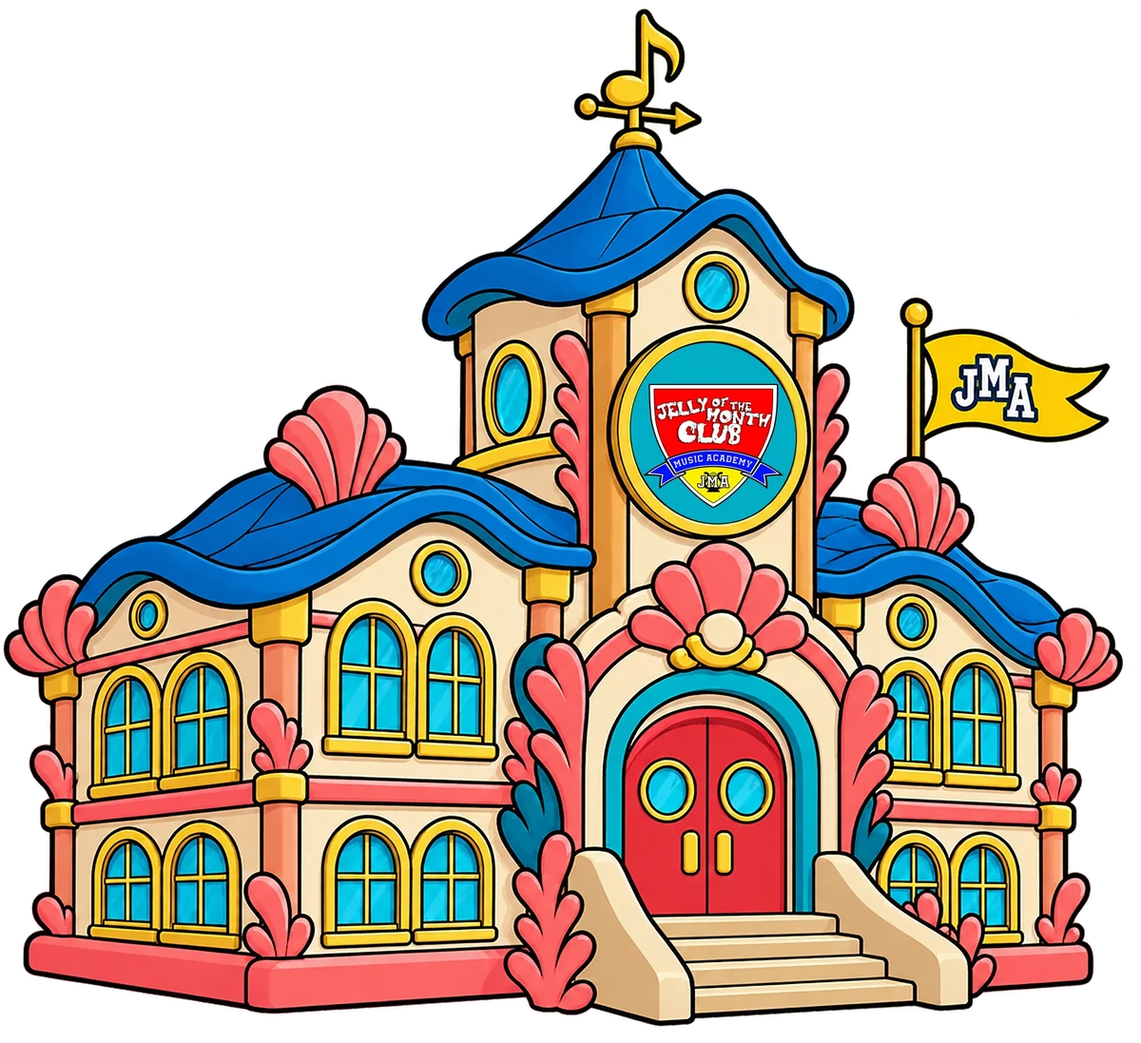
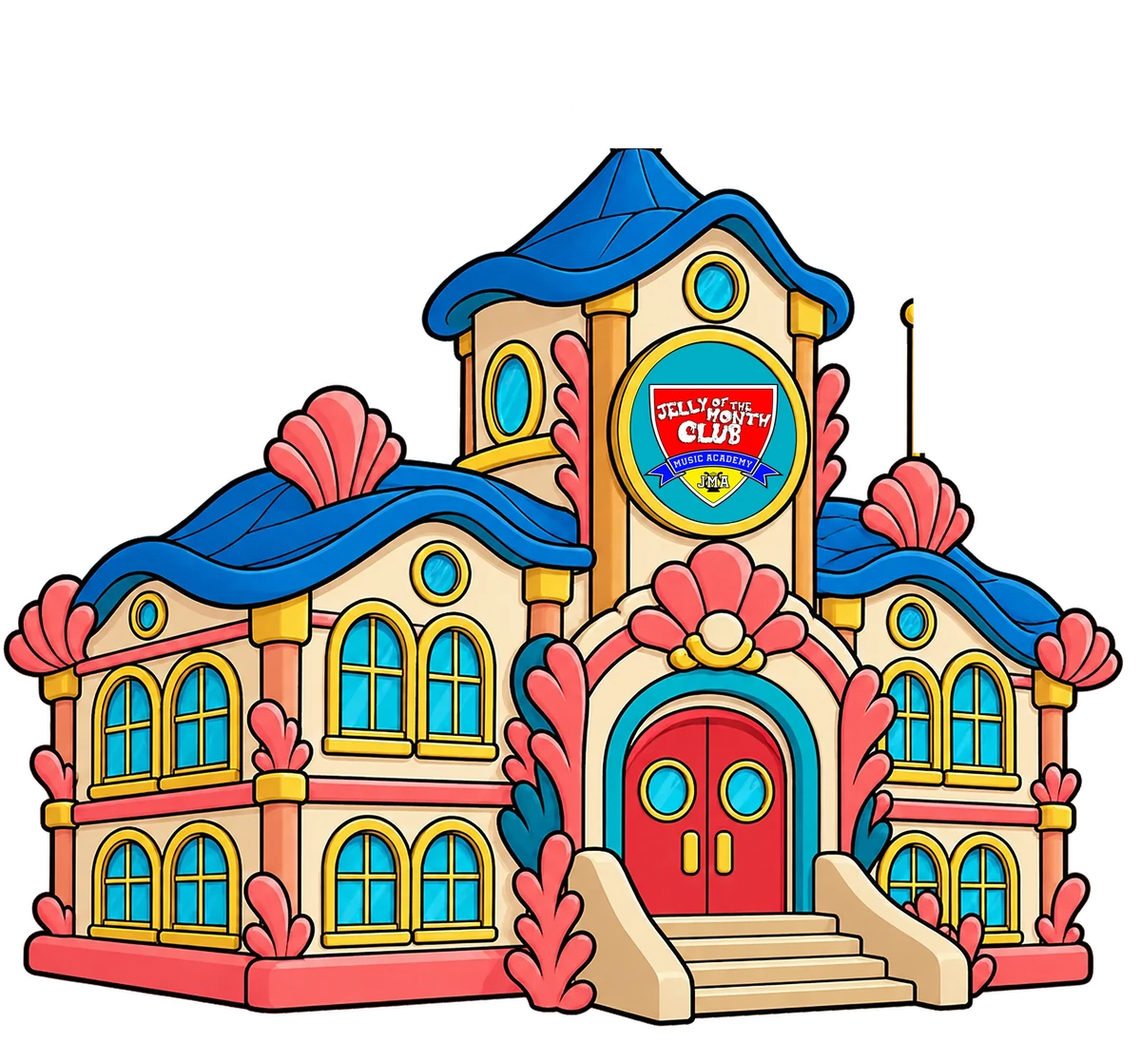
## Four polish features shipped - **Chalk Quest Scrolls**: the two parchment scrolls (and the little treasure map) on the chalkboard now carry the real quest titles — tour or daily — and finished ones get a green chalk tick and a strike-through. - **Your Jelly Peeks In**: the kid's chosen character 
Emergent-Commit-Key: e839b4777209662ae76fa9d4f877a6c32881bd78256ebc9419d2d655642b4d56

Changed region(s): [[0.8017, 0.2789, 0.9867, 0.4339], [0.4933, 0.0, 0.6167, 0.155]]

diff --git a/frontend/src/components/CoverDesigner.js b/frontend/src/components/CoverDesigner.js
@@ -3,7 +3,7 @@
 // drawn from every sticker they've earned, 4 frames and a vinyl label color.
 import { useState } from 'react';
 import { motion } from 'framer-motion';
-import { Play, Check, X, Shuffle, User } from 'lucide-react';
+import { Play, Check, X, Shuffle, User, Type } from 'lucide-react';
 import AvatarSprite from './AvatarSprite';
 import useStickers from '../hooks/useStickers';
 import { COLLECTION_STICKERS, STICKER_CATEGORIES } from '../data/stickers';
@@ -26,6 +26,13 @@ export const FRAMES = [
   { id: 'gold',  name: 'Gold',  style: { border: '5px solid #FFCC00' } },
   { id: 'candy', name: 'Candy', style: { border: '5px dashed white' } },
 ];
+export const TITLE_FONTS = [
+  { id: 'bubbly',  name: 'Bubbly',  family: "'Sniglet', cursive", weight: 800, tracking: '0.01em', upper: false },
+  { id: 'round',   name: 'Round',   family: "'Fredoka', sans-serif", weight: 700, tracking: '0.02em', upper: false },
+  { id: 'comic',   name: 'Comic',   family: "'Comic Kings', cursive", weight: 400, tracking: '0.03em', upper: false },
+  { id: 'block',   name: 'Block',   family: "'Fredoka', sans-serif", weight: 700, tracking: '0.14em', upper: true },
+];
+export const TITLE_COLORS = ['#FFFFFF', '#0B1F3A', '#FFCC00', '#FF2D85', '#1E9BFF', '#34A853', '#FF9500', '#8E5BFF'];
 export const SLOTS = [
   { id: 'main', name: 'Big' },
   { id: 'tl',   name: 'Top left' },
@@ -38,8 +45,8 @@ export function saveCover(id, cover) { const all = loadCovers(); all[id] = cover
 
 // Old covers were { color, sticker } with sticker=null meaning "my avatar".
 export function normalizeCover(c, fallbackColor) {
-  if (!c) return { color: fallbackColor, pattern: 'solid', frame: 'none', label: '#111111', stickers: { main: 'me', tl: null, br: null } };
-  return { color: c.color || fallbackColor, pattern: c.pattern || 'solid', frame: c.frame || 'none', label: c.label || '#111111', stickers: c.stickers || { main: c.sticker || 'me', tl: null, br: null } };
+  if (!c) return { color: fallbackColor, pattern: 'solid', frame: 'none', label: '#111111', stickers: { main: 'me', tl: null, br: null }, title: null };
+  return { color: c.color || fallbackColor, pattern: c.pattern || 'solid', frame: c.frame || 'none', label: c.label || '#111111', stickers: c.stickers || { main: c.sticker || 'me', tl: null, br: null }, title: c.title || null };
 }
 
 const ICON_OF = Object.fromEntries(COLLECTION_STICKERS.filter((s) => s.icon).map((s) => [s.id, s.icon]));
@@ -51,9 +58,10 @@ function SlotArt({ value, avatar, className }) {
   return src ? <img src={src} alt="" className={className} /> : null;
 }
 
-export function Sleeve({ cover, avatar, kind, className = '', activeSlot, onSlot }) {
+export function Sleeve({ cover, avatar, kind, title, className = '', activeSlot, onSlot }) {
   const pat = PATTERNS.find((p) => p.id === cover.pattern) || PATTERNS[0];
   const frame = FRAMES.find((f) => f.id === cover.frame) || FRAMES[0];
+  const tf = cover.title && TITLE_FONTS.find((f) => f.id === cover.title.font);
   const ring = (id) => (onSlot && activeSlot === id ? { outline: '3px dashed #FF9500', outlineOffset: 2, borderRadius: 8 } : {});
   const slot = (id, cls, imgCls) => {
     const art = <SlotArt value={cover.stickers[id]} avatar={avatar} className={imgCls} />;
@@ -62,18 +70,21 @@ export function Sleeve({ cover, avatar, kind, className = '', activeSlot, onSlot
       : <span className={`absolute flex ${cls}`}>{art}</span>;
   };
   return (
-    <div data-testid="sleeve" className={`relative aspect-square rounded-xl overflow-hidden ${className}`} style={{ background: cover.color, ...pat.css, border: '3px solid var(--jma-dark)', boxShadow: '0 4px 0 0 var(--jma-dark)' }}>
+    <div data-testid="sleeve" className={`relative aspect-square rounded-xl overflow-hidden ${className}`} style={{ containerType: 'inline-size', background: cover.color, ...pat.css, border: '3px solid var(--jma-dark)', boxShadow: '0 4px 0 0 var(--jma-dark)' }}>
       {frame.style && <span className="absolute inset-1 rounded-lg pointer-events-none" style={frame.style} />}
       <span data-testid="sleeve-label" className="absolute right-1.5 top-1.5 w-7 h-7 rounded-full flex items-center justify-center" style={{ background: cover.label, border: '2px solid var(--jma-dark)' }}><span className="w-2 h-2 rounded-full" style={{ background: cover.label === '#111111' ? 'white' : 'var(--jma-dark)' }} /></span>
       {slot('main', 'inset-x-0 bottom-0 h-[76%] items-end justify-center', 'h-full w-auto max-w-[70%] object-contain object-bottom')}
       {slot('tl', 'left-1.5 top-1.5 w-[30%] h-[30%] items-center justify-center', 'h-full w-full object-contain')}
       {slot('br', 'right-1.5 bottom-1.5 w-[30%] h-[30%] items-center justify-center', 'h-full w-full object-contain')}
+      {tf && title && (
+        <span data-testid="sleeve-title" className="absolute left-[6%] right-[26%] top-[7%] pointer-events-none leading-[1.05] break-words" style={{ fontFamily: tf.family, fontWeight: tf.weight, letterSpacing: tf.tracking, textTransform: tf.upper ? 'uppercase' : 'none', color: cover.title.color, fontSize: `clamp(8px, ${title.length > 14 ? 9 : 12}cqw, 40px)`, textShadow: cover.title.color === '#FFFFFF' || cover.title.color === '#FFCC00' ? '0 1px 0 rgba(2,36,63,0.7), 0 0 3px rgba(2,36,63,0.5)' : '0 1px 0 rgba(255,255,255,0.6)', containerType: 'normal' }}>{title}</span>
+      )}
       <span className="absolute left-1.5 bottom-1.5 text-[9px] font-black uppercase px-1.5 rounded-full bg-white" style={{ color: 'var(--jma-dark)', border: '2px solid var(--jma-dark)' }}>{kind}</span>
     </div>
   );
 }
 
-const TABS = [{ id: 'color', name: 'Color' }, { id: 'pattern', name: 'Pattern' }, { id: 'stickers', name: 'Stickers' }, { id: 'frame', name: 'Frame' }];
+const TABS = [{ id: 'color', name: 'Color' }, { id: 'pattern', name: 'Pattern' }, { id: 'stickers', name: 'Stickers' }, { id: 'frame', name: 'Frame' }, { id: 'title', name: 'Title' }];
 const sel = (on) => ({ border: `3px solid ${on ? '#FF9500' : 'var(--jma-dark)'}`, boxShadow: on ? '0 0 0 3px white, 0 0 0 5px #FF9500' : 'none' });
 const pick = (arr) => arr[Math.floor(Math.random() * arr.length)];
 
@@ -117,7 +128,7 @@ export default function CoverDesigner({ track, cover: saved, avatar, onSave, onC
   const setSticker = (v) => setCover((c) => ({ ...c, stickers: { ...c.stickers, [slot]: v } }));
   const shuffle = () => {
     const ids = COLLECTION_STICKERS.filter((s) => s.icon).map((s) => s.id);
-    set({ color: pick(SLEEVES), pattern: pick(PATTERNS).id, frame: pick(FRAMES).id, label: pick(LABELS), stickers: { main: pick(['me', 'me', ...ids]), tl: pick([null, ...ids]), br: pick([null, ...ids]) } });
+    set({ color: pick(SLEEVES), pattern: pick(PATTERNS).id, frame: pick(FRAMES).id, label: pick(LABELS), stickers: { main: pick(['me', 'me', ...ids]), tl: pick([null, ...ids]), br: pick([null, ...ids]) }, title: { font: pick(TITLE_FONTS).id, color: pick(TITLE_COLORS) } });
   };
   return (
     <motion.div data-testid="cover-designer" className="fixed inset-0 z-[80] flex items-center justify-center p-2 sm:p-3" style={{ background: 'rgba(2,36,63,0.7)' }} initial={{ opacity: 0 }} animate={{ opacity: 1 }} exit={{ opacity: 0 }} onClick={onClose}>
@@ -127,7 +138,7 @@ export default function CoverDesigner({ track, cover: saved, avatar, onSave, onC
         <div className="text-xs font-bold mb-3" style={{ color: '#4B5668' }}>Design your record sleeve — tap a spot on the cover to put a sticker there.</div>
         <div className="flex gap-3 sm:gap-4">
           <div className="w-36 sm:w-44 md:w-52 flex-shrink-0">
-            <Sleeve cover={cover} avatar={avatar} kind={track.kind} activeSlot={tab === 'stickers' ? slot : null} onSlot={(id) => { setSlot(id); setTab('stickers'); }} />
+            <Sleeve cover={cover} avatar={avatar} kind={track.kind} title={track.name} activeSlot={tab === 'stickers' ? slot : null} onSlot={(id) => { setSlot(id); setTab('stickers'); }} />
             <button type="button" data-testid="cover-shuffle" onClick={shuffle} className="chunky-btn w-full mt-3 py-1.5 text-xs font-black flex items-center justify-center gap-1.5" style={{ background: '#8E5BFF', color: 'white' }}><Shuffle className="w-4 h-4" strokeWidth={3} /> Surprise me!</button>
           </div>
           <div className="flex-1 min-w-0">
@@ -142,6 +153,21 @@ export default function CoverDesigner({ track, cover: saved, avatar, onSave, onC
                 </div>
               )}
               {tab === 'stickers' && <StickerPicker cover={cover} avatar={avatar} slot={slot} setSlot={setSlot} onPick={setSticker} />}
+              {tab === 'title' && (
+                <div>
+                  <div className="text-[11px] font-black uppercase mb-1" style={{ color: '#4B5668' }}>Lettering</div>
+                  <div className="grid grid-cols-5 gap-2 mb-3" data-testid="cover-title-fonts">
+                    <button type="button" data-testid="cover-title-none" aria-pressed={!cover.title} onClick={() => set({ title: null })} className="rounded-xl h-14 flex flex-col items-center justify-center gap-0.5 text-[10px] font-black" style={{ background: '#F6F8FB', color: '#4B5668', ...sel(!cover.title) }}><X className="w-5 h-5" strokeWidth={3} />None</button>
+                    {TITLE_FONTS.map((f) => <button key={f.id} type="button" data-testid={`cover-title-font-${f.id}`} aria-pressed={cover.title?.font === f.id} onClick={() => set({ title: { font: f.id, color: cover.title?.color || '#FFFFFF' } })} className="rounded-xl h-14 flex flex-col items-center justify-center overflow-hidden" style={{ background: cover.color, ...sel(cover.title?.font === f.id) }}>
+                      <span className="leading-none" style={{ fontFamily: f.family, fontWeight: f.weight, letterSpacing: f.tracking, textTransform: f.upper ? 'uppercase' : 'none', fontSize: 15, color: cover.title?.color || '#FFFFFF', textShadow: '0 1px 0 rgba(2,36,63,0.7)' }}>Abc</span>
+                      <span className="text-[9px] font-black text-white" style={{ textShadow: '0 1px 0 var(--jma-dark), 0 0 3px var(--jma-dark)' }}>{f.name}</span>
+                    </button>)}
+                  </div>
+                  <div className="text-[11px] font-black uppercase mb-1" style={{ color: '#4B5668' }}>Letter color</div>
+                  <Swatches list={TITLE_COLORS} value={cover.title?.color} onPick={(color) => set({ title: { font: cover.title?.font || 'bubbly', color } })} prefix="cover-title-color" />
+                  <div className="text-[10px] font-bold mt-2 flex items-center gap-1" style={{ color: '#4B5668' }}><Type className="w-3 h-3" strokeWidth={3} /> Prints "{track.name}" on the sleeve.</div>
+                </div>
+              )}
               {tab === 'frame' && (
                 <div>
                   <div className="text-[11px] font-black uppercase mb-1" style={{ color: '#4B5668' }}>Frame</div>

diff --git a/frontend/src/pages/AcademyPage.js b/frontend/src/pages/AcademyPage.js
@@ -101,7 +101,7 @@ function MyAlbum() {
             const c = coverFor(t, i);
             return (
               <button key={t.id} type="button" data-testid={`academy-track-${i}`} onClick={() => setEditing(t)} className="text-left group">
-                <Sleeve cover={c} avatar={avatar} kind={t.kind} className="transition-transform group-hover:-translate-y-1" />
+                <Sleeve cover={c} avatar={avatar} kind={t.kind} title={t.name} className="transition-transform group-hover:-translate-y-1" />
                 <div className="mt-1 text-xs font-black truncate" style={{ color: 'var(--jma-dark)' }}>{t.name}</div>
                 <div className="text-[10px] font-bold truncate" style={{ color: '#4B5668' }}>{t.meta}</div>
               </button>
@@ -205,13 +205,38 @@ const L = {
 const MOTES = Array.from({ length: 12 }, (_, i) => ({ left: `${44 + (i * 7.3) % 24}%`, top: `${62 + (i * 5.1) % 30}%`, size: 3 + (i % 3) * 2, dur: 5 + (i % 4) * 1.5, delay: -(i * 0.7) }));
 const HALL = { w: 1920, h: 1080 };
 
+// The two parchment scrolls (and the little treasure map) drawn on the chalkboard
+// carry the real quest titles; finished ones get a chalk tick and a strike.
+const SCROLL_SPOTS = [
+  { left: '5.5%', top: '62.5%', width: '22%', height: '25%', color: '#5A3A14', rot: -2 },
+  { left: '79.5%', top: '41.5%', width: '17.5%', height: '19%', color: '#5A3A14', rot: 2 },
+  { left: '79.5%', top: '72.5%', width: '19.5%', height: '20%', color: '#FFFFFF', rot: 0 },
+];
+function ChalkScrolls() {
+  const { quests } = useDailyQuests();
+  return (
+    <div aria-hidden="true" className="absolute pointer-events-none" style={{ ...L.doodles, aspectRatio: '408 / 327', zIndex: 4, containerType: 'inline-size' }} data-testid="academy-chalk-scrolls">
+      {SCROLL_SPOTS.map((s, i) => {
+        const q = quests[i];
+        if (!q) return null;
+        return (
+          <div key={q.id} data-testid={`academy-chalk-quest-${i}`} data-done={q.done ? 'true' : 'false'} className="absolute flex items-center justify-center text-center font-display font-black leading-[1.05]" style={{ left: s.left, top: s.top, width: s.width, height: s.height, rotate: `${s.rot}deg`, color: s.color, fontSize: '3.1cqw', padding: '0 3%', textDecoration: q.done ? 'line-through' : 'none', textDecorationThickness: '0.12em', opacity: q.done ? 0.75 : 1 }}>
+            <span>{q.title}</span>
+            {q.done && <motion.span className="absolute inset-0 flex items-center justify-center" style={{ color: '#34A853', fontSize: '12cqw', textShadow: '0 0 2px white' }} initial={{ scale: 0, rotate: -20 }} animate={{ scale: 1, rotate: 0 }} transition={{ type: 'spring', stiffness: 300, damping: 14 }}>✓</motion.span>}
+          </div>
+        );
+      })}
+    </div>
+  );
+}
+
 // The two easels on the art table show the kid's two latest record sleeves
 // (or a "make one!" hint) so the station explains itself.
 const EASELS = [{ left: '26%', top: '21%', width: '17.5%', rot: -4 }, { left: '54.5%', top: '22.5%', width: '20%', rot: 3 }];
 function Easels() {
   const avatar = readAvatarOutfit();
   const latest = useMemo(() => {
-    const tracks = [...loadSavedBeats().map((b) => ({ id: b.id, kind: 'beat', at: b.createdAt || 0 })), ...loadSongs().map((t) => ({ id: t.id, kind: 'song', at: Date.parse(t.createdAt) || 0 }))];
+    const tracks = [...loadSavedBeats().map((b) => ({ id: b.id, name: b.name, kind: 'beat', at: b.createdAt || 0 })), ...loadSongs().map((t) => ({ id: t.id, name: t.name, kind: 'song', at: Date.parse(t.createdAt) || 0 }))];
     const covers = loadCovers();
     return tracks.filter((t) => covers[t.id]).sort((a, b) => b.at - a.at).slice(0, 2).map((t) => ({ ...t, cover: normalizeCover(covers[t.id], SLEEVES[0]) }));
   }, []);
@@ -221,7 +246,7 @@ function Easels() {
         const t = latest[i];
         return (
           <motion.div key={i} className="absolute" style={{ left: e.left, top: e.top, width: e.width, rotate: e.rot }} animate={{ y: [0, -1.5, 0] }} transition={{ repeat: Infinity, duration: 3 + i, ease: 'easeInOut' }}>
-            {t ? <Sleeve cover={t.cover} avatar={avatar} kind={t.kind} className="w-full" />
+            {t ? <Sleeve cover={t.cover} avatar={avatar} kind={t.kind} title={t.name} className="w-full" />
               : <div className="w-full aspect-square flex flex-col items-center justify-center gap-0.5 text-center" style={{ color: '#B8233A' }}>
                   <Palette className="w-[40%] h-[40%]" strokeWidth={2.5} />
                   <span className="font-black leading-none" style={{ fontSize: 'clamp(6px, 0.55vw, 11px)' }}>{i === 0 ? 'ALBUM' : 'COVERS'}</span>
@@ -293,7 +318,7 @@ export default function AcademyPage() {
       <motion.div data-testid="academy-hall" data-leaving={leaving ? 'true' : 'false'} className="absolute" style={{ width: box.w, height: box.h, left: box.left, top: box.top, transformOrigin: '55.8% 48%' }}
         initial={{ scale: 1.08, opacity: 0 }} animate={leaving ? { scale: 3.2, opacity: 0 } : { scale: 1, opacity: 1 }} transition={leaving ? { duration: 0.65, ease: [0.6, 0, 0.8, 1] } : { duration: 1.2, ease: [0.2, 0.8, 0.2, 1] }}>
         {/* the plaza, alive, seen through the archway (behind the plate) */}
-        <AcademyPortal style={L.hole} onEnter={goOut} disabled={leaving} />
+        <AcademyPortal style={L.hole} onEnter={goOut} disabled={leaving} avatar={readAvatarOutfit()} />
         {/* the painted room — the archway is a transparent hole in this plate */}
         <img src={`${ROOM}plate.webp`} alt="" draggable={false} className="absolute inset-0 w-full h-full" style={{ zIndex: 2 }} />
         <Bubbles className="absolute inset-0" />
@@ -312,6 +337,7 @@ export default function AcademyPage() {
         {/* chalkboard → Quest Board (chalk doodles shimmer on their own layer) */}
         <Prop id="chalkboard" pos={L.chalkboard} />
         <Prop id="chalk-doodles" pos={L.doodles} z={3} idle={{ opacity: [0.85, 1, 0.85], y: [0, -2, 0] }} />
+        <ChalkScrolls />
         {[0, 1, 2].map((n) => (
           <motion.span key={n} aria-hidden="true" className="absolute pointer-events-none" style={{ left: `${9 + n * 6}%`, top: '26%', color: ['#FFFFFF', '#FFCC00', '#7FEFFF'][n], zIndex: 3 }}
             animate={{ y: [0, -60 - n * 15], x: [0, (n % 2 ? 1 : -1) * 14], opacity: [0, 0.9, 0], rotate: [0, n % 2 ? 20 : -20] }} transition={{ repeat: Infinity, duration: 3 + n * 0.6, delay: n * 1.1, ease: 'easeOut' }}>

diff --git a/frontend/src/pages/CampusMapPage.js b/frontend/src/pages/CampusMapPage.js
@@ -203,6 +203,23 @@ function Clammo({ left, width, bottom }) {
 }
 
 
+// The Academy's pennant ripples in the current; the note weathervane spins when tapped.
+// Both are cut out of the building art so the base image has holes where they sit.
+function AcademyFlair() {
+  const [spin, setSpin] = useState(0);
+  const whirl = (e) => { e.stopPropagation(); setSpin((n) => n + 1); const a = new Audio(encodeURI('assets/audio/sfx-twinkle.mp3')); a.volume = 0.4; a.play().catch(() => {}); };
+  return (
+    <>
+      <motion.img src="assets/plaza/academy-flag.png" alt="" draggable={false} aria-hidden="true" data-testid="academy-flag" className="absolute pointer-events-none" style={{ left: '80.05%', top: '34.5%', width: '17.35%', zIndex: 2, transformOrigin: '0% 20%' }}
+        animate={{ rotate: [0, 2.5, -1.5, 2, 0], skewY: [0, -3, 2, -2, 0], scaleX: [1, 0.97, 1, 0.98, 1] }} transition={{ repeat: Infinity, duration: 2.6, ease: 'easeInOut' }} />
+      <motion.button type="button" data-testid="academy-vane" aria-label="Spin the weathervane" onClick={whirl} className="absolute p-0 border-0 bg-transparent cursor-pointer" style={{ left: '50.15%', top: '9.25%', width: '11.5%', zIndex: 3 }} whileHover={{ scale: 1.06 }}>
+        <motion.img key={spin} src="assets/plaza/academy-vane.png" alt="" draggable={false} className="block w-full h-auto" style={{ transformOrigin: '50% 72%' }}
+          animate={spin ? { rotateY: [0, 1080], scaleX: [1, 1.1, 1] } : { rotateY: [0, 25, -20, 0] }} transition={spin ? { duration: 1.4, ease: [0.2, 0.8, 0.3, 1] } : { repeat: Infinity, duration: 6, ease: 'easeInOut' }} />
+      </motion.button>
+    </>
+  );
+}
+
 // The Academy's cuckoo: the kid's current rank character pops out onto the
 // clock-tower ledge (assets/plaza/academy.png — door ≈ x 61.6%, ledge y 31%).
 // The first time a NEW rank shows up here, the doors swing open with a chime.
@@ -302,7 +319,7 @@ function Building({ b, index, locked, onEnter, onLocked, shout, L, entering, bad
           {b.custom === 'tv'
             ? <DriveIn />
             : <img src={b.art} alt="" draggable={false} className="relative z-[1] w-full h-full object-contain object-bottom" style={{ filter: locked && b.flat ? 'grayscale(0.9) brightness(0.8) drop-shadow(0 8px 0 rgba(2,36,63,0.35))' : 'drop-shadow(0 8px 0 rgba(2,36,63,0.35))', transition: 'filter 0.6s', transform: [drop ? `translateY(${drop}%)` : '', b.flip ? 'scaleX(-1)' : ''].join(' ').trim() || undefined }} />}
-          {b.custom === 'academy' && <Cuckoo />}
+          {b.custom === 'academy' && <><AcademyFlair /><Cuckoo /></>}
           {b.sign && (
             <span data-testid={`campus-building-${b.id}-sign`} className="absolute -translate-x-1/2 -translate-y-1/2 font-black font-display whitespace-nowrap pointer-events-none"
               style={{ left: `${b.signPos.x}%`, top: `${b.signPos.y}%`, fontSize: Math.round(L.bw * b.size * (b.sign.length > 8 ? 0.055 : 0.085) * (b.signScale || 1)), color: 'var(--jma-dark)', zIndex: 5, letterSpacing: '0.04em',

diff --git a/frontend/src/components/AcademyPortal.js b/frontend/src/components/AcademyPortal.js
@@ -5,6 +5,7 @@ import { useEffect, useState } from 'react';
 import { motion } from 'framer-motion';
 import { ArrowRight } from 'lucide-react';
 import { UW_ASSETS } from './UnderwaterBackdrop';
+import AvatarSprite from './AvatarSprite';
 
 const FISH = [
   { src: UW_ASSETS.fish2, top: '20%', w: '34%', dur: 10, delay: 0 },
@@ -13,7 +14,7 @@ const FISH = [
 ];
 const BUBBLES = Array.from({ length: 9 }, (_, i) => ({ left: `${8 + (i * 10.3) % 84}%`, size: 4 + (i % 4) * 3, dur: 4 + (i % 3) * 1.4, delay: -(i * 0.9) }));
 
-export default function AcademyPortal({ style, onEnter, disabled }) {
+export default function AcademyPortal({ style, onEnter, disabled, avatar }) {
   const [open, setOpen] = useState(false);
   useEffect(() => {
     const t = setTimeout(() => { setOpen(true); const a = new Audio(encodeURI('assets/audio/sfx-twinkle.mp3')); a.volume = 0.4; a.play().catch(() => {}); }, 700);
@@ -37,6 +38,14 @@ export default function AcademyPortal({ style, onEnter, disabled }) {
           <motion.img key={n} src={n ? UW_ASSETS.seaweed2 : UW_ASSETS.seaweed1} alt="" draggable={false} className="absolute object-contain object-bottom" style={{ [n ? 'right' : 'left']: '2%', bottom: '4%', width: '30%', transformOrigin: 'bottom center' }}
             animate={{ rotate: n ? [3, -3, 3] : [-3, 3, -3] }} transition={{ repeat: Infinity, duration: 3 + n, ease: 'easeInOut' }} />
         ))}
+        {/* the kid's own Jelly swims past the doorway now and then */}
+        {avatar && (
+          <motion.div data-testid="academy-portal-me" className="absolute" style={{ left: 0, bottom: '18%', width: '34%' }}
+            initial={{ x: '-130%' }} animate={{ x: ['-130%', '330%'], y: [0, -8, 0, 6, 0] }}
+            transition={{ x: { repeat: Infinity, duration: 7, ease: 'linear', repeatDelay: 9, delay: 2.5 }, y: { repeat: Infinity, duration: 2.4, ease: 'easeInOut' } }}>
+            <AvatarSprite src={avatar.src} helmet={avatar.helmet} className="w-full h-auto" style={{ filter: 'drop-shadow(0 3px 0 rgba(2,36,63,0.35))' }} />
+          </motion.div>
+        )}
         {BUBBLES.map((b, i) => (
           <motion.span key={i} className="absolute rounded-full" style={{ left: b.left, bottom: '-6%', width: b.size, height: b.size, border: '1.5px solid rgba(255,255,255,0.85)', background: 'rgba(255,255,255,0.25)' }}
             animate={{ y: ['0%', '-1600%'], x: [0, i % 2 ? 8 : -8, 0], opacity: [0, 0.9, 0] }} transition={{ repeat: Infinity, duration: b.dur, delay: b.delay, ease: 'easeOut' }} />

diff --git a/memory/export_academy_flag.py b/memory/export_academy_flag.py
@@ -1,0 +1,41 @@
+from PIL import Image
+import numpy as np
+src = Image.open('/tmp/academy-new2.webp').convert('RGBA')
+W, H = src.size  # 2000x1828
+a = np.array(src)
+
+def pct(x0, y0, x1, y1):
+    # square box: image width = 100%, height 91.4% bottom-aligned → top offset 8.6%
+    return dict(left=round(x0/W*100, 2), top=round(8.6 + y0/H*91.4, 2), width=round((x1-x0)/W*100, 2), height=round((y1-y0)/H*91.4, 2))
+
+# flag cloth: right of the pole. find pole column: alpha column density in y 540..780 around x 1590..1640
+reg = a[540:780, 1580:1660, 3] > 10
+cols = reg.sum(axis=0)
+pole_x = 1580 + int(np.argmax(cols))
+print('pole x', pole_x)
+# cloth bbox: alpha right of pole+12
+sub = a[480:792, pole_x+14:2000, 3] > 10
+ys, xs = np.where(sub)
+fx0, fy0, fx1, fy1 = pole_x+14+xs.min()-2, 480+ys.min()-2, pole_x+14+xs.max()+3, 480+ys.max()+3
+print('flag bbox', fx0, fy0, fx1, fy1, pct(fx0, fy0, fx1, fy1))
+flag = src.crop((fx0, fy0, fx1, fy1))
+# weathervane: everything above the spire tip. find roof top y: first row where alpha spans > 150px wide
+rows = (a[:, :, 3] > 10).sum(axis=1)
+roof_y = 258
+print('roof/spire y', roof_y)
+vy1 = roof_y + 2
+sub = a[0:vy1, :, 3] > 10
+ys, xs = np.where(sub)
+vx0, vy0, vx1 = xs.min()-2, max(0, ys.min()-2), xs.max()+3
+print('vane bbox', vx0, vy0, vx1, vy1, pct(vx0, vy0, vx1, vy1))
+vane = src.crop((vx0, vy0, vx1, vy1))
+# base without flag cloth + vane
+base = a.copy()
+base[fy0:fy1, fx0:fx1, 3] = 0
+base[vy0:vy1, vx0:vx1, 3] = 0
+base_im = Image.fromarray(base)
+out = '/app/frontend/public/assets/plaza/'
+base_im.resize((1200, round(H*1200/W)), Image.LANCZOS).save(out+'academy.webp', 'WEBP', quality=88, method=6)
+flag.resize((round(flag.width*0.6), round(flag.height*0.6)), Image.LANCZOS).save(out+'academy-flag.png', optimize=True)
+vane.resize((round(vane.width*0.6), round(vane.height*0.6)), Image.LANCZOS).save(out+'academy-vane.png', optimize=True)
+print('pole pct x', round(pole_x/W*100, 2))

diff --git a/memory/PRD.md b/memory/PRD.md
@@ -513,3 +513,4 @@ Beta tester (Rose) feedback pass + a new Live channel. Respond in English.
 - Academy room polish: 12 coral accents are separate layers (`data/academyRoom.js` + room/coral-NN.png, generated by /app/memory/export_academy_coral.py) breathing ±2.5%; room-wide `Bubbles`; sfx `ding(file, maxMs)` fades long samples (trumpet 450ms, guitar 900ms); portal fish render behind the buildings; art table = "Album Cover Studio" with `Easels` showing the two latest sleeves (or a palette hint).
 - Plaza/streets: host sprites whose character matches the chosen avatar are hidden (`hostCharacter()` in CampusMapPage; sharky→finn, dr-jellybone→doctor); greeting shout picks the first visible host. Chowda moved to the right of JMAtv (xs[6]) and hidden when the kid IS Chowda.
 - Plaza Academy building replaced with user art → public/assets/plaza/academy.webp (1200px, from "The Academy Building.webp"); size 1.5; Cuckoo anchored to the tower oval window (left 60.3%, top 29.3%, 7%x7%). Old academy.png kept on disk but unused.
+- Four features (June 2026): ChalkScrolls (AcademyPage) print quests[0..2] on the two chalk scrolls + treasure map with ✓/strike when done; AcademyPortal `avatar` prop → kid's Jelly swims through the archway every ~16s; plaza AcademyFlair (CampusMapPage) = flag + weathervane cut from the building art (public/assets/plaza/academy-flag.png / academy-vane.png via /app/memory/export_academy_flag.py; base academy.webp has holes) — flag ripples, vane idles and spins 3 turns on tap without entering; CoverDesigner "Title" tab: TITLE_FONTS (bubbly/round/comic/block) + TITLE_COLORS, cover.title {font,color} prints track name on Sleeve via `title` prop (used in MyAlbum grid, Easels, designer).
